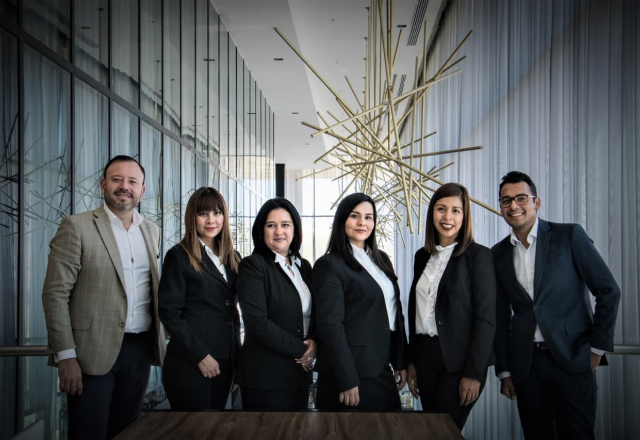
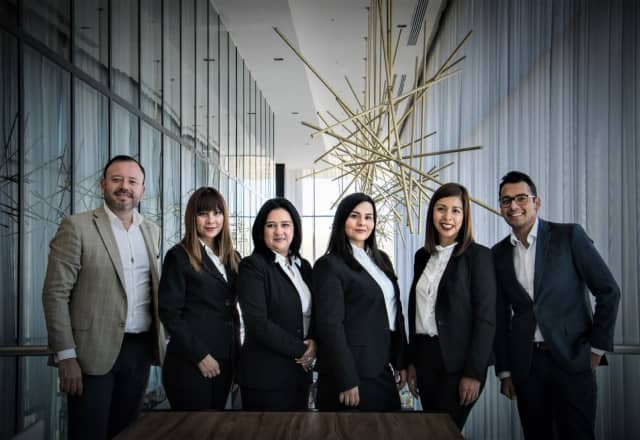
4

Changed region(s): [[0.5938, 0.3841, 0.6562, 0.5023], [0.5938, 0.325, 0.625, 0.3841]]

diff --git a/css/main.min.css b/css/main.min.css
@@ -1,1 +1,1 @@
-*,*::before,*::after{box-sizing:border-box}body{background-color:#f4f4f4;color:#fff;font-family:"Open Sans";font-style:normal;width:100%}h1,h2,h3,p{margin:0}address{font-style:normal}ul{margin:0;padding-left:0}img{display:block;max-width:100%;height:auto}.list{list-style:none;margin:0;padding-left:0}.link{color:inherit;text-decoration:none}.visually-hidden{position:absolute;width:1px;height:1px;margin:-1px;border:0;padding:0;white-space:nowrap;clip-path:inset(100%);clip:rect(0 0 0 0);overflow:hidden}.section{width:100%;max-width:1360px;margin:0 auto}.container{width:auto;padding-left:15px;padding-right:15px;margin-left:auto;margin-right:auto}@media screen and (min-width: 320px){.container{max-width:320px}}@media screen and (min-width: 768px){.container{max-width:748px;padding:0 20px}}@media screen and (min-width: 1360px){.container{max-width:1360px;padding:0}}.button{width:165px;height:48px;left:597px;top:436px;font-size:18px;font-weight:400;line-height:1.5555555556;color:#fff;background:#28a745;border-radius:5px}.header__btn{display:flex;align-items:center;justify-content:center;text-align:center;margin:0 auto;border:none}.btn__icon{margin-right:6px}.managers__btn{border:1px solid #fff}@media screen and (max-width: 767px){.button{font-size:16px;font-weight:400;line-height:1.625}}.overlay{width:100%;left:0px;top:0px;margin-left:auto;margin-right:auto;border-radius:0px;background-repeat:no-repeat;background-position:center;background-size:cover}@media screen and (min-width: 320px){.overlay{max-width:320px;max-height:533px;background-image:url("../img/mobile/rectangle1x.jpg")}}@media screen and (min-device-pixel-ratio: 2)and (min-width: 320px),screen and (min-resolution: 192dpi)and (min-width: 320px),screen and (min-resolution: 2dppx)and (min-width: 320px){.overlay{background-image:url("../img/mobile/rectangle@2x.jpg")}}@media screen and (min-width: 768px){.overlay{max-width:768px;max-height:1024px;background-image:url("../img/tablet/rectangle1x.jpg")}}@media screen and (min-device-pixel-ratio: 2)and (min-width: 768px),screen and (min-resolution: 192dpi)and (min-width: 768px),screen and (min-resolution: 2dppx)and (min-width: 768px){.overlay{background-image:url("../img/tablet/rectangle@2x.jpg")}}@media screen and (min-width: 1360px){.overlay{max-width:1360px;max-height:768px;background-image:url("../img/land/Rectangle1x.jpg")}}@media screen and (min-device-pixel-ratio: 2)and (min-width: 1360px),screen and (min-resolution: 192dpi)and (min-width: 1360px),screen and (min-resolution: 2dppx)and (min-width: 1360px){.overlay{background-image:url("../img/land/Rectangle@2x.jpg")}}@media screen and (min-width: 320px){.nav{display:flex;flex-direction:column;align-items:center;width:100%;max-width:768px;height:70px;left:0px;top:0px;margin:0 auto}.header__icon{margin-right:10px}.header__logo{display:flex;align-items:center;font-size:32px;font-weight:400;line-height:1.3125;margin-right:auto;color:#28a745;padding-top:21px}.header__Ledger{color:#fff}.header__list{display:flex;gap:13px;font-size:16px;font-weight:400;line-height:1.625;padding-top:21px;padding-bottom:20px}.header__box{padding-top:71px;padding-bottom:95px}.header__title{font-size:52px;font-weight:300;line-height:1.2692307692;text-align:center;color:#e9e9e9}.header__text{font-size:22px;font-weight:400;line-height:1.6818181818;text-align:center;margin-top:16px;margin-bottom:27px}}@media screen and (min-width: 768px){.nav{display:flex;flex-direction:row;align-items:center;max-width:768px}.header__logo{font-size:35px;font-weight:400;line-height:1.2;padding:11px 0}.header__list{gap:18px;font-size:18px;font-weight:400;line-height:1.5555555556;padding-top:21px;padding-bottom:20px}.header__box{padding-top:340px;padding-bottom:405px}.header__title{font-size:55px;font-weight:300;line-height:1.2}.header__text{margin-top:25px;margin-bottom:30px}}@media screen and (min-width: 1360px){.nav{max-width:1260px}.header__list{gap:38px}.header__box{padding-top:210px;padding-bottom:280px}}@media screen and (max-width: 767px){.function__item:not(:last-child){margin-bottom:18px}}@media screen and (min-width: 320px){.function__list{display:block;padding-top:30px;padding-bottom:30px}.function__background{display:flex;align-items:center;justify-content:center;margin:0 auto;margin-bottom:11px;width:67px;height:67px;background:#28a745;border-radius:33.5px}.function__subtitle{font-size:20px;font-weight:400;line-height:1.65;text-align:center;margin-bottom:15px;color:#333}.function__desc{font-size:18px;font-weight:400;line-height:1.5555555556;text-align:center;color:#333}}@media screen and (min-width: 768px){.function__list{display:flex;gap:60px;padding-top:40px;padding-bottom:20px}.function__item{margin-bottom:0}.function__background{margin-bottom:15px}.function__subtitle{margin-bottom:16px}}@media screen and (min-width: 1360px){.function__list{gap:71px}.function{padding-left:66px;padding-right:66px}}@media screen and (min-width: 320px){.managers__container{width:100%;max-width:320px;height:100%;padding:0}.managers__img{width:100%}.managers__box{height:100%;padding:30px;background:#28a745;border-radius:0px}.managers__subtitle{font-size:18px;font-weight:400;line-height:1.6666666667;margin-bottom:5px;color:#fff}.managers__title{font-size:38px;font-weight:300;line-height:1.2631578947;color:#fff;margin-bottom:25px}.managers__text{font-size:16px;font-weight:400;line-height:1.625;color:#fff;margin-bottom:14px}}@media screen and (min-width: 768px){.managers__container{max-width:768px}.managers__list{display:flex}.managers__item{max-width:384px}.managers__box{padding:30px 0;padding-left:30px;padding-right:39px}.managers__subtitle{font-size:20px;font-weight:400;line-height:1.65}.managers__title{margin-bottom:26px}.managers__text{font-size:18px;font-weight:400;line-height:1.5555555556;margin-bottom:20px}}@media screen and (min-width: 1360px){.managers__container{max-width:1360px}.managers__item{max-width:680px}.managers__box{padding:84px 0;padding-left:30px;padding-right:44px}.managers__text{margin-bottom:17px}}.work{padding:48px 28px}.work__box{display:flex;flex-direction:column;align-items:center}.work__list{display:flex;flex-direction:column;flex-wrap:wrap;row-gap:7px;column-gap:8px;height:100%;width:100%;max-height:647px;max-width:1360px}.work__subtitle{margin-bottom:15px;color:#333}.work__title{margin-bottom:34px;color:#333}.work__text{margin-bottom:39px;color:#333}/*# sourceMappingURL=main.min.css.map */
+*,*::before,*::after{box-sizing:border-box}body{background-color:#f4f4f4;color:#fff;font-family:"Open Sans";font-style:normal;width:100%}h1,h2,h3,p{margin:0}address{font-style:normal}ul{margin:0;padding-left:0}img{display:block;max-width:100%;height:auto}.list{list-style:none;margin:0;padding-left:0}.link{color:inherit;text-decoration:none}.visually-hidden{position:absolute;width:1px;height:1px;margin:-1px;border:0;padding:0;white-space:nowrap;clip-path:inset(100%);clip:rect(0 0 0 0);overflow:hidden}.section{width:100%;max-width:320px;margin:0 auto}@media screen and (min-width: 320px){.section{max-width:320px}}@media screen and (min-width: 768px){.section{max-width:768px}}@media screen and (min-width: 1360px){.section{max-width:1360px}}.container{width:auto;margin-left:auto;margin-right:auto}@media screen and (min-width: 320px){.container{max-width:320px}}@media screen and (min-width: 768px){.container{max-width:748px}}@media screen and (min-width: 1360px){.container{max-width:1360px}}.button{width:165px;height:48px;left:597px;top:436px;font-size:18px;font-weight:400;line-height:1.5555555556;color:#fff;background:#28a745;border-radius:5px}.header__btn{display:flex;align-items:center;justify-content:center;text-align:center;margin:0 auto;border:none}.btn__icon{margin-right:6px}.managers__btn{border:1px solid #fff}@media screen and (max-width: 767px){.button{font-size:16px;font-weight:400;line-height:1.625}}.overlay{width:100%;left:0px;top:0px;margin-left:auto;margin-right:auto;border-radius:0px;background-repeat:no-repeat;background-position:center;background-size:cover}@media screen and (min-width: 320px){.overlay{max-width:320px;max-height:533px;background-image:url("../img/mobile/rectangle1x.jpg")}}@media screen and (min-device-pixel-ratio: 2)and (min-width: 320px),screen and (min-resolution: 192dpi)and (min-width: 320px),screen and (min-resolution: 2dppx)and (min-width: 320px){.overlay{background-image:url("../img/mobile/rectangle@2x.jpg")}}@media screen and (min-width: 768px){.overlay{max-width:768px;max-height:1024px;background-image:url("../img/tablet/rectangle1x.jpg")}}@media screen and (min-device-pixel-ratio: 2)and (min-width: 768px),screen and (min-resolution: 192dpi)and (min-width: 768px),screen and (min-resolution: 2dppx)and (min-width: 768px){.overlay{background-image:url("../img/tablet/rectangle@2x.jpg")}}@media screen and (min-width: 1360px){.overlay{max-width:1360px;max-height:768px;background-image:url("../img/land/Rectangle1x.jpg")}}@media screen and (min-device-pixel-ratio: 2)and (min-width: 1360px),screen and (min-resolution: 192dpi)and (min-width: 1360px),screen and (min-resolution: 2dppx)and (min-width: 1360px){.overlay{background-image:url("../img/land/Rectangle@2x.jpg")}}@media screen and (min-width: 320px){.nav{display:flex;flex-direction:column;align-items:center;width:100%;max-width:768px;height:70px;left:0px;top:0px;margin:0 auto;padding:0 20px}.header__icon{margin-right:10px}.header__logo{display:flex;align-items:center;font-size:32px;font-weight:400;line-height:1.3125;margin-right:auto;color:#28a745;padding-top:21px}.header__Ledger{color:#fff}.header__list{display:flex;gap:13px;font-size:16px;font-weight:400;line-height:1.625;padding-top:21px;padding-bottom:20px}.header__box{padding-top:71px;padding-bottom:95px}.header__title{font-size:52px;font-weight:300;line-height:1.2692307692;text-align:center;color:#e9e9e9}.header__text{font-size:22px;font-weight:400;line-height:1.6818181818;text-align:center;margin-top:16px;margin-bottom:27px}}@media screen and (min-width: 768px){.nav{display:flex;flex-direction:row;align-items:center;max-width:768px}.header__logo{font-size:35px;font-weight:400;line-height:1.2;padding:11px 0}.header__list{gap:18px;font-size:18px;font-weight:400;line-height:1.5555555556;padding-top:21px;padding-bottom:20px}.header__box{padding-top:340px;padding-bottom:405px}.header__title{font-size:55px;font-weight:300;line-height:1.2}.header__text{margin-top:25px;margin-bottom:30px}}@media screen and (min-width: 1360px){.nav{max-width:1260px}.header__list{gap:38px}.header__box{padding-top:210px;padding-bottom:280px}}@media screen and (max-width: 767px){.function__item:not(:last-child){margin-bottom:18px}}@media screen and (min-width: 320px){.function__list{display:block;padding-top:30px;padding-bottom:30px}.function__background{display:flex;align-items:center;justify-content:center;margin:0 auto;margin-bottom:11px;width:67px;height:67px;background:#28a745;border-radius:33.5px}.function__subtitle{font-size:20px;font-weight:400;line-height:1.65;text-align:center;margin-bottom:15px;color:#333}.function__desc{font-size:18px;font-weight:400;line-height:1.5555555556;text-align:center;color:#333}}@media screen and (min-width: 768px){.function__list{display:flex;gap:60px;padding-top:40px;padding-bottom:20px}.function__item{margin-bottom:0}.function__background{margin-bottom:15px}.function__subtitle{margin-bottom:16px}}@media screen and (min-width: 1360px){.function__list{gap:71px}.function{padding-left:66px;padding-right:66px}}@media screen and (min-width: 320px){.managers__container{width:100%;max-width:320px;height:100%;padding:0}.managers__img{width:100%}.managers__box{height:100%;padding:30px;background:#28a745;border-radius:0px}.managers__subtitle{font-size:18px;font-weight:400;line-height:1.6666666667;margin-bottom:5px;color:#fff}.managers__title{font-size:38px;font-weight:300;line-height:1.2631578947;color:#fff;margin-bottom:25px}.managers__text{font-size:16px;font-weight:400;line-height:1.625;color:#fff;margin-bottom:14px}}@media screen and (min-width: 768px){.managers__container{max-width:768px}.managers__list{display:flex}.managers__item{max-width:384px}.managers__box{padding:30px 0;padding-left:30px;padding-right:39px}.managers__subtitle{font-size:20px;font-weight:400;line-height:1.65}.managers__title{margin-bottom:26px}.managers__text{font-size:18px;font-weight:400;line-height:1.5555555556;margin-bottom:20px}}@media screen and (min-width: 1360px){.managers__container{max-width:1360px}.managers__item{max-width:680px}.managers__box{padding:84px 0;padding-left:30px;padding-right:44px}.managers__text{margin-bottom:17px}}@media screen and (min-width: 320px){.work{padding:48px 28px}.work__box{display:flex;flex-direction:column;align-items:center;text-align:center}.work__list{display:flex;flex-direction:column;flex-wrap:wrap;row-gap:7px;height:100%;width:100%;max-width:264px}.work__subtitle{margin-bottom:15px;color:#333}.work__title{margin-bottom:35px;color:#333}.work__text{margin-bottom:38px;color:#333}}@media screen and (min-width: 768px){.work__list{display:flex;flex-direction:column;flex-wrap:wrap;row-gap:7px;column-gap:8px;max-width:768px;max-height:237px}}@media screen and (min-width: 1360px){.work__list{max-height:647px;max-width:1360px}}/*# sourceMappingURL=main.min.css.map */

diff --git a/css/main.css b/css/main.css
@@ -60,14 +60,27 @@ img {
 
 .section {
   width: 100%;
-  max-width: 1360px;
+  max-width: 320px;
   margin: 0 auto;
 }
 
+@media screen and (min-width: 320px) {
+  .section {
+    max-width: 320px;
+  }
+}
+@media screen and (min-width: 768px) {
+  .section {
+    max-width: 768px;
+  }
+}
+@media screen and (min-width: 1360px) {
+  .section {
+    max-width: 1360px;
+  }
+}
 .container {
   width: auto;
-  padding-left: 15px;
-  padding-right: 15px;
   margin-left: auto;
   margin-right: auto;
 }
@@ -80,13 +93,11 @@ img {
 @media screen and (min-width: 768px) {
   .container {
     max-width: 748px;
-    padding: 0 20px;
   }
 }
 @media screen and (min-width: 1360px) {
   .container {
     max-width: 1360px;
-    padding: 0;
   }
 }
 .button {
@@ -185,6 +196,7 @@ img {
     left: 0px;
     top: 0px;
     margin: 0 auto;
+    padding: 0 20px;
   }
   .header__icon {
     margin-right: 10px;
@@ -426,39 +438,52 @@ img {
     margin-bottom: 17px;
   }
 }
-.work {
-  padding: 48px 28px;
+@media screen and (min-width: 320px) {
+  .work {
+    padding: 48px 28px;
+  }
+  .work__box {
+    display: flex;
+    flex-direction: column;
+    align-items: center;
+    text-align: center;
+  }
+  .work__list {
+    display: flex;
+    flex-direction: column;
+    flex-wrap: wrap;
+    row-gap: 7px;
+    height: 100%;
+    width: 100%;
+    max-width: 264px;
+  }
+  .work__subtitle {
+    margin-bottom: 15px;
+    color: #333333;
+  }
+  .work__title {
+    margin-bottom: 35px;
+    color: #333333;
+  }
+  .work__text {
+    margin-bottom: 38px;
+    color: #333333;
+  }
 }
-
-.work__box {
-  display: flex;
-  flex-direction: column;
-  align-items: center;
+@media screen and (min-width: 768px) {
+  .work__list {
+    display: flex;
+    flex-direction: column;
+    flex-wrap: wrap;
+    row-gap: 7px;
+    column-gap: 8px;
+    max-width: 768px;
+    max-height: 237px;
+  }
 }
-
-.work__list {
-  display: flex;
-  flex-direction: column;
-  flex-wrap: wrap;
-  row-gap: 7px;
-  column-gap: 8px;
-  height: 100%;
-  width: 100%;
-  max-height: 647px;
-  max-width: 1360px;
-}
-
-.work__subtitle {
-  margin-bottom: 15px;
-  color: #333333;
-}
-
-.work__title {
-  margin-bottom: 34px;
-  color: #333333;
-}
-
-.work__text {
-  margin-bottom: 39px;
-  color: #333333;
+@media screen and (min-width: 1360px) {
+  .work__list {
+    max-height: 647px;
+    max-width: 1360px;
+  }
 }/*# sourceMappingURL=main.css.map */

diff --git a/index.html b/index.html
@@ -180,9 +180,9 @@
                 <source srcset="./img/land/pk/Rectangle1.jpg 1x, ./img/land/pk/Rectangle@2x.jpg 2x" 
                   media="(min-width: 1360px)">
 
-                   <source srcset=""
+                    <source srcset="./img/tablet/img1.jpg 1x, ./img/tablet/img1@2x.jpg 2x"
                    media="(min-width: 768px)">
-                    <source srcset=""
+                    <source srcset="./img/mobile/Rectangle1.jpg 1x, ./img/mobile/Rectangle1@2x.jpg 2x"
                    media="(max-width: 767px)">
               
                <img src="./img/mobile/Rectangle1.jpg" alt="" /></li>
@@ -193,11 +193,12 @@
               <picture>
                   <source srcset="./img/land/pk/Rectangle5.jpg 1x, ./img/land/pk/Rectangle5@2x.jpg 2x"
                    media="(min-width: 1360px)">
-                 <source srcset="./img/tablet/img5.png 1x, ./img/tablet/img5@2x.png 2x"
+                   <source srcset="./img/tablet/Rectangle5.jpg 1x, ./img/tablet/Rectangle5@2x.jpg 2x"
                    media="(min-width: 768px)">
-                    <source srcset="./img/mobile/Rectangle5.png 1x, ./img/mobile/Rectangle5@2x.png 2x"
+                    <source srcset="./img/mobile/Rectangle5.jpg 1x, ./img/mobile/Rectangle5@2x.jpg 2x"
                    media="(max-width: 767px)">
-                   <img src="./img/mobile/Rectangle5.png" alt="" />
+                 
+                   <img src="./img/mobile/Rectangle5.jpg" alt="" />
               </picture>
               
               </li>

diff --git a/sass/layout/_work.scss b/sass/layout/_work.scss
@@ -1,33 +1,53 @@
-.work {
-  padding: 48px 28px;
-}
-.work__box {
-  display: flex;
-  flex-direction: column;
-  align-items: center;
-}
-.work__list {
-  display: flex;
-  flex-direction: column;
-  flex-wrap: wrap;
-  row-gap: 7px;
-  column-gap: 8px;
-  height: 100%;
+@media screen and (min-width: 320px) {
+  .work {
+    padding: 48px 28px;
+  }
 
-  width: 100%;
-  max-height: 647px;
-  max-width: 1360px;
-}
+  .work__box {
+    display: flex;
+    flex-direction: column;
+    align-items: center;
+    text-align: center;
+  }
+  .work__list {
+    display: flex;
+    flex-direction: column;
+    flex-wrap: wrap;
+    row-gap: 7px;
 
-.work__subtitle {
-  margin-bottom: 15px;
-  color: #333333;
+    height: 100%;
+    width: 100%;
+    max-width: 264px;
+  }
+
+  .work__subtitle {
+    margin-bottom: 15px;
+    color: #333333;
+  }
+  .work__title {
+    margin-bottom: 35px;
+    color: #333333;
+  }
+  .work__text {
+    margin-bottom: 38px;
+    color: #333333;
+  }
 }
-.work__title {
-  margin-bottom: 34px;
-  color: #333333;
+@media screen and (min-width: 768px) {
+  .work__list {
+    display: flex;
+    flex-direction: column;
+    flex-wrap: wrap;
+    row-gap: 7px;
+    column-gap: 8px;
+
+    max-width: 768px;
+    max-height: 237px;
+  }
 }
-.work__text {
-  margin-bottom: 39px;
-  color: #333333;
+@media screen and (min-width: 1360px) {
+  .work__list {
+    max-height: 647px;
+    max-width: 1360px;
+  }
 }

diff --git a/sass/utils/_section.scss b/sass/utils/_section.scss
@@ -1,21 +1,20 @@
-.container {
-  width: auto;
-  margin-left: auto;
-  margin-right: auto;
+.section {
+  width: 100%;
+  max-width: 320px;
+  margin: 0 auto;
 }
 @media screen and (min-width: 320px) {
-  .container {
+  .section {
     max-width: 320px;
   }
 }
-
 @media screen and (min-width: 768px) {
-  .container {
-    max-width: 748px;
+  .section {
+    max-width: 768px;
   }
 }
 @media screen and (min-width: 1360px) {
-  .container {
+  .section {
     max-width: 1360px;
   }
 }

diff --git a/sass/utils/_utils.scss b/sass/utils/_utils.scss
@@ -52,9 +52,3 @@ img {
   clip: rect(0 0 0 0);
   overflow: hidden;
 }
-
-.section {
-  width: 100%;
-  max-width: 1360px;
-  margin: 0 auto;
-}

diff --git a/sass/layout/_header.scss b/sass/layout/_header.scss
@@ -9,6 +9,7 @@
     left: 0px;
     top: 0px;
     margin: 0 auto;
+    padding: 0 20px;
   }
   .header__icon {
     margin-right: 10px;

diff --git a/sass/main.scss b/sass/main.scss
@@ -1,4 +1,5 @@
 @import "./utils/utils";
+@import "./utils/section";
 @import "./utils/container";
 @import "./utils/mixin";
 
